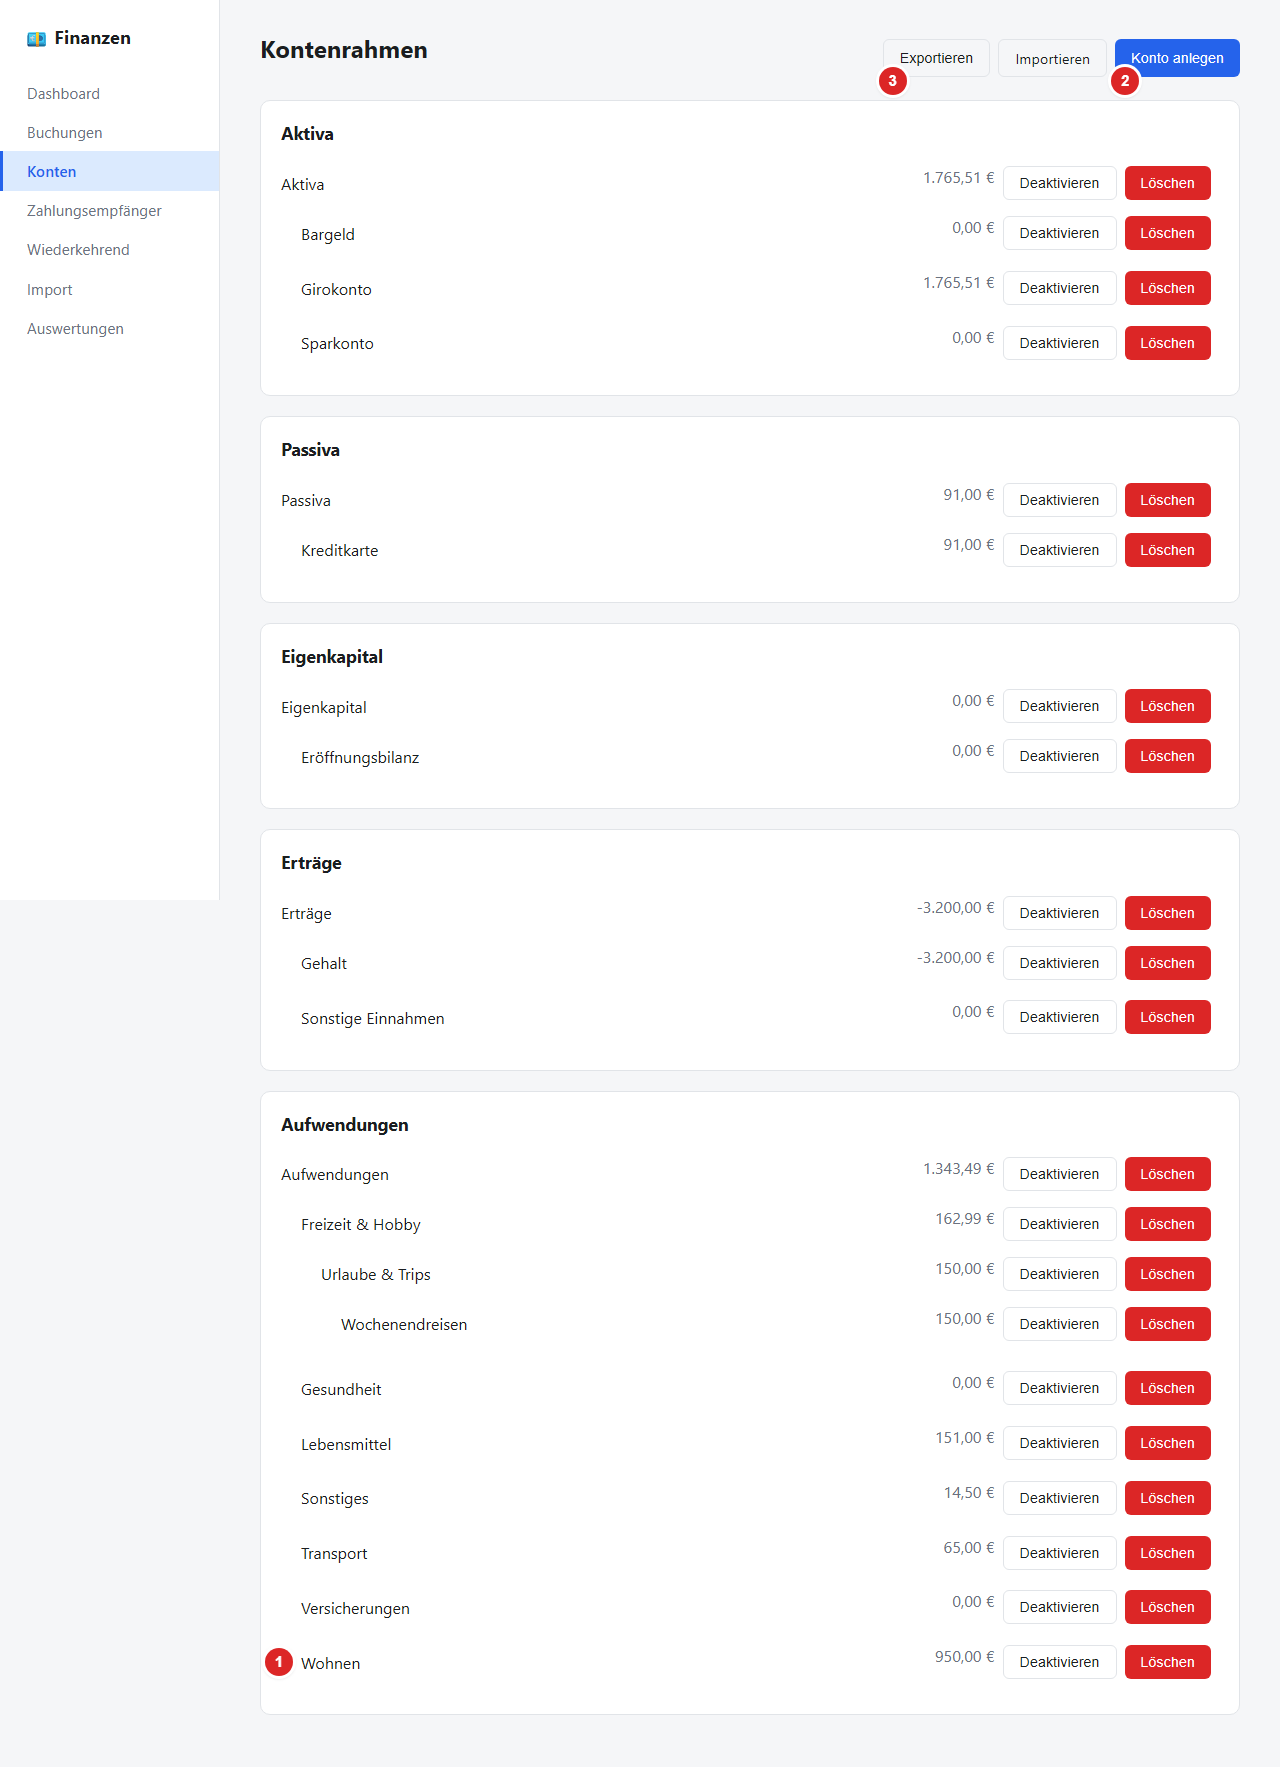
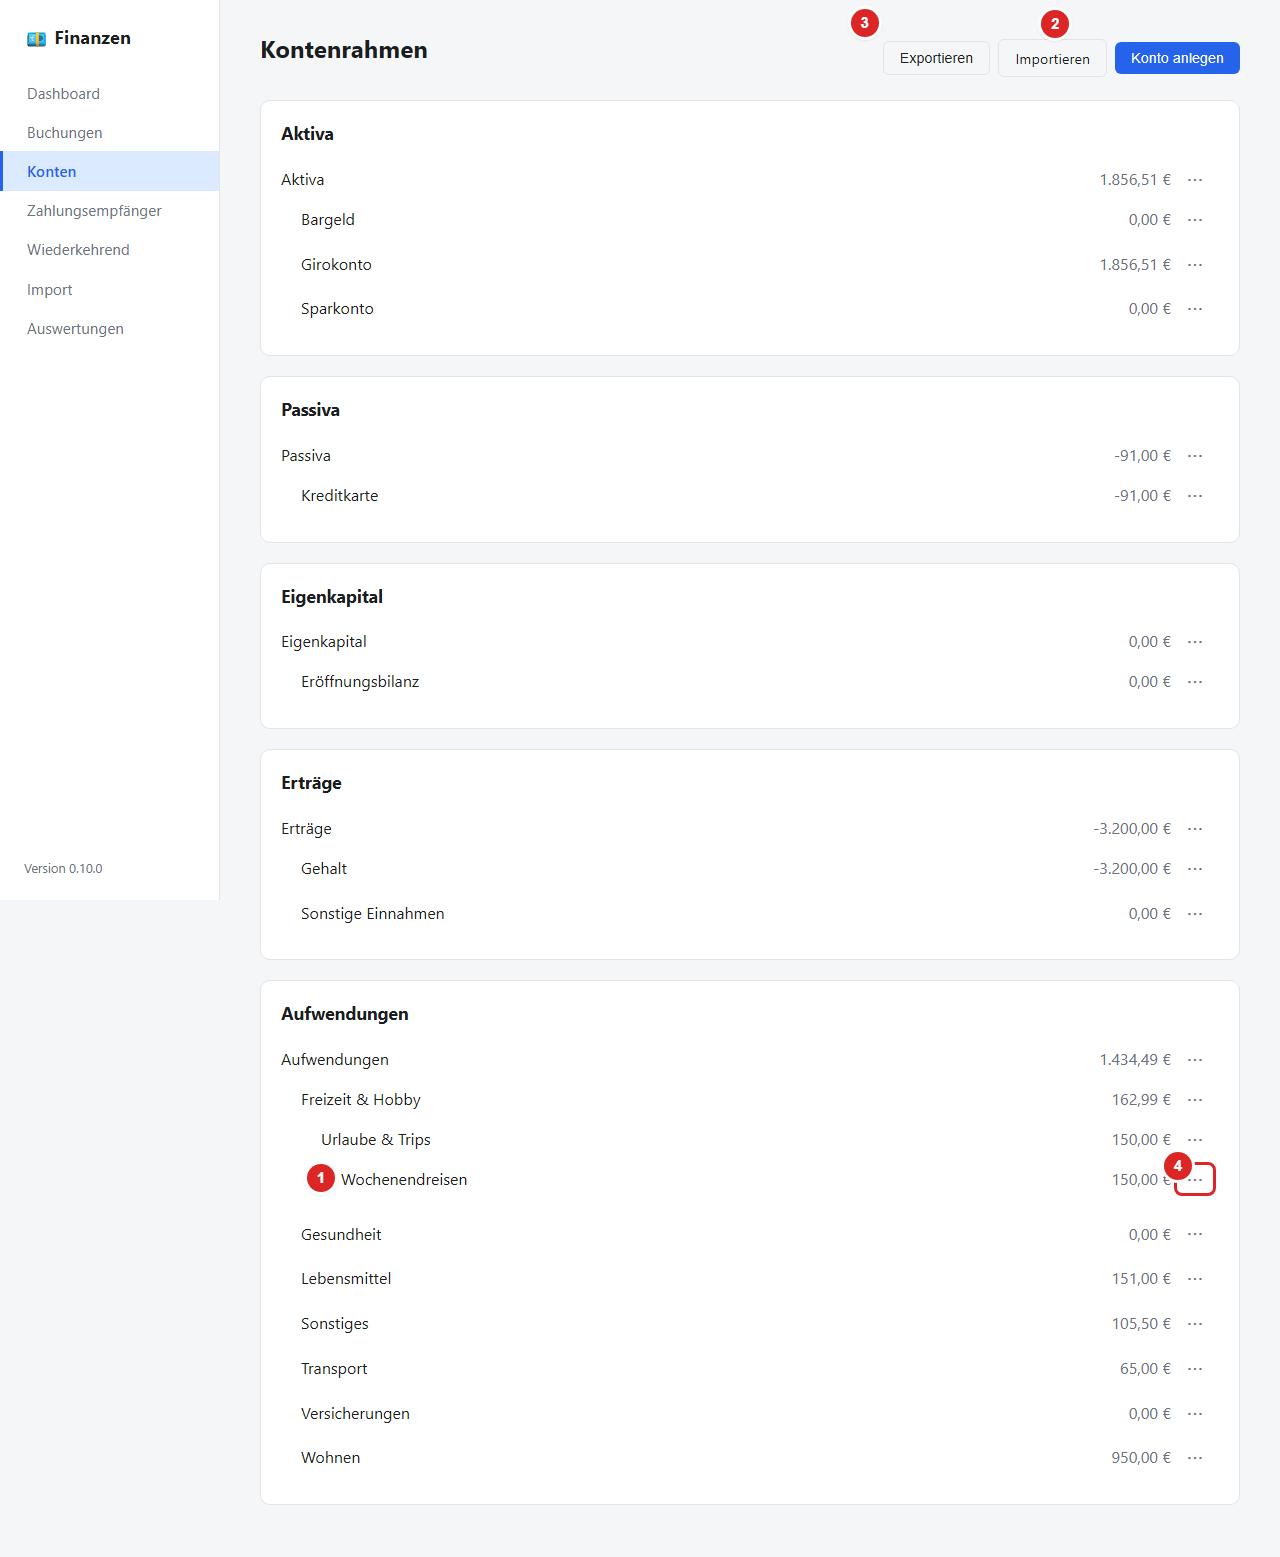
Update user manual for the new account action menu
The Kontenrahmen screenshot still showed the old three-button row
layout; re-captured it against the current UI and added a callout
explaining the new "..." menu. Also notes the new info route in
CLAUDE.md's structure overview.

diff --git a/CLAUDE.md b/CLAUDE.md
@@ -174,9 +174,9 @@ Target environment: the owner's private Proxmox cluster, in an unprivileged LXC 
 ## Structure
 
 ```
-server/src/routes/*.ts      one file per resource (accounts, payees, transactions, recurring, forecast, reports, import, importTemplates)
+server/src/routes/*.ts      one file per resource (accounts, payees, transactions, recurring, forecast, reports, import, importTemplates, info)
 server/src/services/        forecast.ts (recurring→occurrence expansion), importParser.ts (CSV/date/amount parsing)
 server/src/migrations/      plain numbered .sql files, applied in order by db.ts on boot
 client/src/api.ts           typed fetch wrapper — the single source of truth for API shapes on the frontend
-client/src/pages/*.tsx      one per nav item, matches server/src/routes 1:1
+client/src/pages/*.tsx      one per nav item, matches server/src/routes 1:1 (info is the exception — no page, just the version string in the sidebar footer)
 ```

diff --git a/ANWENDERHANDBUCH.md b/ANWENDERHANDBUCH.md
@@ -74,6 +74,7 @@ Die Navigation links führt zu allen sieben Bereichen der App. Sie ist auf jeder
 ① **Kontenbaum** — beliebig tief verschachtelbar; jedes Konto zeigt seinen Saldo *inklusive* aller Unterkonten (hier sichtbar an der dreistufigen Kette Freizeit & Hobby → Urlaube & Trips → Wochenendreisen).
 ② **Konto anlegen** — neues Konto oder neue Kategorie hinzufügen.
 ③ **Exportieren/Importieren** — den kompletten Kontenrahmen als JSON-Datei sichern oder (per Merge, ohne bestehende Konten zu überschreiben) wieder einspielen.
+④ **"⋯"-Menü** — pro Konto: Umbenennen (Inline-Bearbeitung direkt in der Zeile), Deaktivieren/Aktivieren, Löschen (nur möglich, wenn das Konto weder Buchungen noch Unterkonten hat — sonst stattdessen deaktivieren).
 
 ### 3.3 Buchungen
 